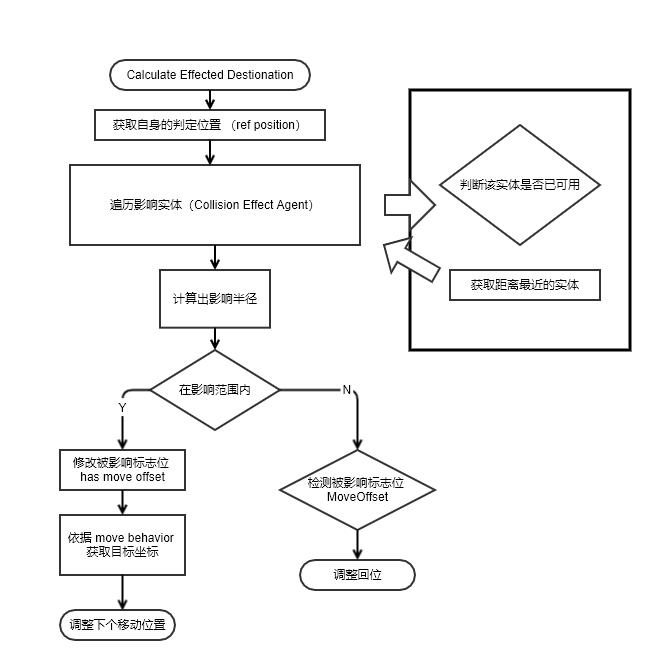
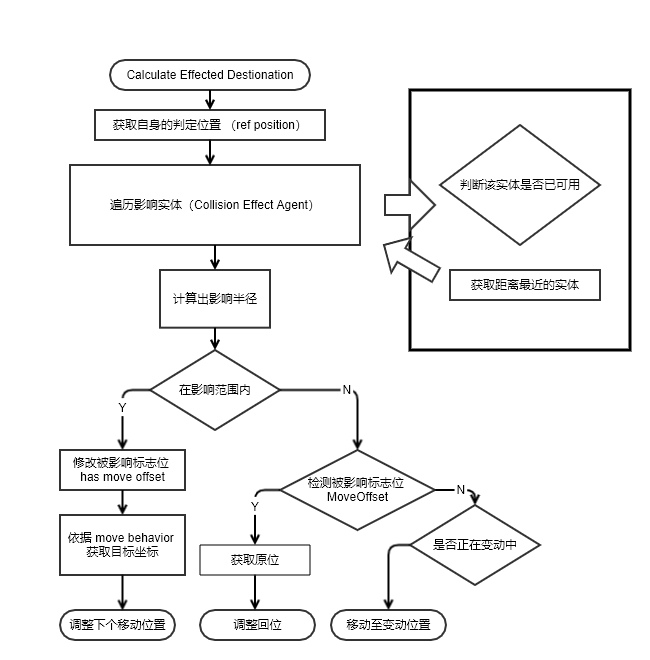
123
11

diff --git a/Assets/Script/Agent/FlockAgent.cs b/Assets/Script/Agent/FlockAgent.cs
@@ -116,6 +116,11 @@ namespace MagicWall
         private bool _isStarEffect = false;
         public bool isStarEffect { set { _isStarEffect = value; } get { return _isStarEffect; } }
 
+
+
+
+
+
         /* collision 相关 */
 
         /// <summary>
@@ -129,9 +134,20 @@ namespace MagicWall
         public bool MoveFlag { set { _moveFlag = value; } get { return _moveFlag; } }
 
 
+        private bool _hasChangedFlag = false;
+        public bool hasChangedFlag { set { _hasChangedFlag = value; } get { return _hasChangedFlag; } }
+
+
+
         private bool _hasMoveOffset = false;
 
         public bool hasMoveOffset { set { _hasMoveOffset = value; } get { return _hasMoveOffset; } }
+
+        /// <summary>
+        ///  变化中的位置
+        /// </summary>
+        private Vector2 _nextChangedPosition;
+        public Vector2 NextChangedPosition { set { _nextChangedPosition = value; } get { return _nextChangedPosition; } }
 
 
         /* collision 相关结束 */
@@ -782,7 +798,7 @@ namespace MagicWall
         /// <returns></returns>
         public void CalculateEffectedDestination(List<CollisionEffectAgent> effectAgents)
         {
-            Debug.Log("=== " + gameObject.name + " LOG START ===");
+            //Debug.Log("=== " + gameObject.name + " LOG START ===");
 
             bool needReturnPositionFlag = false;
 
@@ -796,10 +812,10 @@ namespace MagicWall
                 CollisionEffectAgent targetAgent = null;
 
                 // target position
-                Vector2 targetPosition;
+                Vector2 targetPosition = new Vector2();
 
 
-                float distance = 1000f;
+                float distance = 2000f;
 
                 for (int i = 0; i < effectAgents.Count; i++)
                 {
@@ -809,16 +825,17 @@ namespace MagicWall
                     {
                         continue;
                     }
+                    else {
+                        targetPosition = item.GetRefPosition();
 
-                    Vector2 effectPosition = item.GetRefPosition();
+                        float newDistance = Vector2.Distance(refPosition, targetPosition);
 
-                    float newDistance = Vector2.Distance(refPosition, effectPosition);
-
-                    if (newDistance < distance)
-                    {
-                        distance = newDistance;
-                        targetAgent = item;
-                    }
+                        if (newDistance < distance)
+                        {
+                            distance = newDistance;
+                            targetAgent = item;
+                        }
+                    }                    
                 }
 
 
@@ -841,6 +858,14 @@ namespace MagicWall
                 // 获取差值，差值越大，则表明两个物体距离越近，MAX（offsest） = effectDistance
                 float offset = effectDistance - distance;
 
+                bool offsetGreater = (offset >= 0);
+
+                //Debug.Log("[" + _manager.SceneStatus + "]" + gameObject.name
+                //    + " | tpos: " + targetPosition + " | rpos: "
+                //    + refPosition + " | effectdis:"
+                //    + effectDistance + " | distance: " + distance + "offsetGreater : " + offsetGreater);
+
+
 
                 // 进入影响范围
                 if (offset >= 0)
@@ -848,7 +873,7 @@ namespace MagicWall
                     TurnOnHasMovedOffsetFlag();
 
                     var moveBehavior = targetAgent.GetMoveBehavior();
-                    targetPosition = targetAgent.GetRefPosition();
+                    //targetPosition = targetAgent.GetRefPosition();
 
                     /// 受影响浮块具体实现
                     Vector2 to = moveBehavior.CalculatePosition(refPosition,
@@ -864,6 +889,10 @@ namespace MagicWall
                         _manager.mainPanel.GetComponent<RectTransform>().rect.height / 2);
                     localPosition += panelAnchorPosition;
 
+                    SetNextPosition(localPosition);
+
+
+
                     float sc = moveBehavior.CalculateScale(refPosition,
                                 targetPosition, distance,
                                 effectDistance, w, h, _manager);
@@ -873,17 +902,14 @@ namespace MagicWall
                     float k = defaultEasingFunction(offset / effectDistance);
 
 
-                    Debug.Log(gameObject.name + " - localPosition " + localPosition + "OFFSET: " + offset);
+                    //Debug.Log(gameObject.name + " - localPosition " + localPosition + "OFFSET: " + offset);
 
                     //m_transform?.DOAnchorPos(Vector2.Lerp(refVector2, to, k), Time.deltaTime);
-                    UpdateNextPosition(localPosition);
                     //GetComponent<RectTransform>()?.DOAnchorPos(to, Time.deltaTime);
                     //m_transform?.DOScale(Mathf.Lerp(1f, 0.1f, k), Time.deltaTime);
                     GetComponent<RectTransform>()?.DOScale(sc, Time.deltaTime);
                 }
                 else {
-                    Debug.Log(gameObject.name + " - 影响范围外 OFFSET " + offset);
-
                     needReturnPositionFlag = true;
                 }
 
@@ -893,16 +919,21 @@ namespace MagicWall
             if (needReturnPositionFlag) {
                 if (_hasMoveOffset)
                 {
-                    Debug.Log(gameObject.name + " - localPosition " + _oriVector2 + " | " + effectAgents.Count);
-
-
                     TurnOffHasMovedOffsetFlag();
-                    UpdateNextPosition(_oriVector2);
+                    RecoverPosition();
                     GetComponent<RectTransform>()?.DOScale(1, Time.deltaTime);
+                }
+                else {
+                    if (_hasChangedFlag) {
+                        _hasChangedFlag = false;
+                        SetNextPosition(_nextChangedPosition);                        
+                    }
+
                 }
             }
 
-            Debug.Log("=== " + gameObject.name + " LOG END ===");
+            //Debug.Log("### " + gameObject.name + " LOG END ###");
+
         }
 
 
@@ -918,7 +949,7 @@ namespace MagicWall
             if (_manager.SceneStatus == WallStatusEnum.Cutting)
             {
                 // 当前场景正在切换时，参考位置为目标的下个移动位置
-                refVector2 = NextVector2;
+                refVector2 = _nextChangedPosition;
             }
             else
             {
@@ -939,26 +970,37 @@ namespace MagicWall
             return screenPosition;
         }
 
-        public void UpdateNextPosition(Vector3 vector)
-        {
-            NextVector2 = vector;
-            MoveFlag = true;
-        }
+
+        //public Vector3 GetNextMovePosition
+
+
+
 
         public void UpdatePosition(List<CollisionEffectAgent> effectAgents)
         {
+            //Debug.Log(gameObject.name + " Start ");
+
+
             // 判断碰撞位置
             CalculateEffectedDestination(effectAgents);
 
             if (MoveFlag)
             {
+                var ap = GetComponent<RectTransform>().anchoredPosition;
+
                 // 移动到下个位置
                 GetComponent<RectTransform>().anchoredPosition = NextVector2;
                 MoveFlag = false;
+
+                //Debug.Log(gameObject.name + " 移动至： " + NextVector2 + " 距离：" + Vector2.Distance(ap,NextVector2) + " 缩放倍数： " + GetComponent<RectTransform>().localScale);
+                //Debug.Log(gameObject.name + " 移动结束！！ ");
+                //Debug.Log(gameObject.name + " ... ");
             }
             else {
 
             }
+
+            //Debug.Log(gameObject.name + " End ");
         }
 
         public void TurnOnHasMovedOffsetFlag()
@@ -969,6 +1011,34 @@ namespace MagicWall
         public void TurnOffHasMovedOffsetFlag()
         {
             _hasMoveOffset = false;
+        }
+
+        public void UpdateChangedPosition(Vector3 vector)
+        {
+            throw new NotImplementedException();
+        }
+
+        public void SetChangedPosition(Vector3 vector)
+        {
+            _nextChangedPosition = vector;
+            _hasChangedFlag = true;
+        }
+
+        public void SetNextPosition(Vector3 vector)
+        {
+            NextVector2 = vector;
+            MoveFlag = true;
+        }
+
+        void RecoverPosition() {
+            if (_hasChangedFlag)
+            {
+                SetNextPosition(_nextChangedPosition);
+            }
+            else {
+                SetNextPosition(_oriVector2);
+            }
+
         }
 
         /* CollisionMoveBasicAgent 相关 结束 */

diff --git a/Assets/Script/OperateCard/Agent/CardAgent.cs b/Assets/Script/OperateCard/Agent/CardAgent.cs
@@ -305,6 +305,7 @@ namespace MagicWall
             if (_cardStatus == CardStatusEnum.NORMAL || _cardStatus == CardStatusEnum.MOVE)
             {
                 _recentActiveTime = Time.time;
+                _destoryFirstStageCompleteTime = 0f;
             }
 
             if (_cardStatus == CardStatusEnum.HIDE) {
@@ -314,6 +315,7 @@ namespace MagicWall
             if (_cardStatus == CardStatusEnum.RECOVER)
             {
                 _recentActiveTime = Time.time;
+                _destoryFirstStageCompleteTime = 0f;
             }
 
 
@@ -366,6 +368,9 @@ namespace MagicWall
         private void DoDestoriedForSecondStep()
         {
             _cardStatus = CardStatusEnum.DESTORY;
+
+            _protectAgent.SetDisabled();
+
 
             GetComponent<CircleCollider2D>().radius = 0;
 
@@ -456,9 +461,11 @@ namespace MagicWall
         //  恢复
         //
         private void DoRecover()
-        {
+        {            
             _protectAgent.DoClose();
             _cardStatus = CardStatusEnum.RECOVER;
+
+            DoUpdate();
 
             // 停止销毁动画
             _destory_first_scale_tweener.Kill();

diff --git a/Assets/Script/OperateCard/Agent/ProtectAgent.cs b/Assets/Script/OperateCard/Agent/ProtectAgent.cs
@@ -7,6 +7,8 @@ using UnityEngine.EventSystems;
 namespace MagicWall { 
     public class ProtectAgent : MonoBehaviour, IBeginDragHandler, IEndDragHandler, IDragHandler, IPointerClickHandler
     {
+        bool _enabled = true;
+
         Action _onUpdatedAction;
 
         private void Start()
@@ -27,10 +29,20 @@ namespace MagicWall {
 
         private void IsUpdated() {
             //Debug.Log("ProtectAgent Is Updated");
-            _onUpdatedAction.Invoke();
+            if (_enabled) {
+                _onUpdatedAction.Invoke();
+            }
+            
         }
 
+        public void SetEnabled() {
+            _enabled = true;
+        }
 
+        public void SetDisabled()
+        {
+            _enabled = false;
+        }
 
         public void OnBeginDrag(PointerEventData eventData)
         {

diff --git a/Assets/Script/Collision/CollisionManager.cs b/Assets/Script/Collision/CollisionManager.cs
@@ -24,11 +24,17 @@ namespace MagicWall {
         // Update is called once per frame
         void Update()
         {                        
-            // 计算移动
-            for (int i = 0; i < _collisionBasicAgents.Count; i++) {
-                _collisionBasicAgents[i].UpdatePosition(_collisionEffectAgents);                                       
-            }            
+       
         }
+
+        public void Run() {
+            // 计算移动
+            for (int i = 0; i < _collisionBasicAgents.Count; i++)
+            {
+                _collisionBasicAgents[i].UpdatePosition(_collisionEffectAgents);
+            }
+        }
+
 
         public void AddCollisionMoveBasicAgent(CollisionMoveBasicAgent agent) {
             _collisionBasicAgents.Add(agent);

diff --git a/Assets/Script/Scene/Cut Effect/EffectImpl/CurveStaggerCutEffect.cs b/Assets/Script/Scene/Cut Effect/EffectImpl/CurveStaggerCutEffect.cs
@@ -78,7 +78,10 @@ namespace MagicWall
                     // 此时可能未走完动画
                     if (!agent.isCreateSuccess)
                     {
-                        agent.UpdateNextPosition(ori_vector2);
+                        agent.SetChangedPosition(ori_vector2);
+
+                        //Debug.Log(agent.gameObject.name + " is create success !");
+
                         //agent.NextVector2 = ori_vector2;
                         agent.isCreateSuccess = true;
                     }
@@ -92,7 +95,7 @@ namespace MagicWall
 
                 Vector2 to = Vector2.Lerp(agent_vector2, ori_vector2, t);
 
-                agent.UpdateNextPosition(to);
+                agent.SetChangedPosition(to);
 
                 //agent.NextVector2 = to;
             }

diff --git a/Assets/Script/Collision/CollisionMoveBasicAgent.cs b/Assets/Script/Collision/CollisionMoveBasicAgent.cs
@@ -11,8 +11,10 @@ namespace MagicWall
     /// </summary>
     public interface CollisionMoveBasicAgent
     {
+        void SetChangedPosition(Vector3 vector);
+
         // 更新下一个移动位置
-        void UpdateNextPosition(Vector3 vector);
+        void SetNextPosition(Vector3 vector);
 
         /// <summary>
         ///  ref : https://www.yuque.com/u314548/fc6a5l/yb8hw4#3PuB2

diff --git a/Assets/Script/MagicWallManager.cs b/Assets/Script/MagicWallManager.cs
@@ -316,6 +316,8 @@ namespace MagicWall
 
             _agentManager.Run();
 
+            _collisionManager.Run();
+
             //  启动监听
             udpServer.Listening();
             if (_reset)
